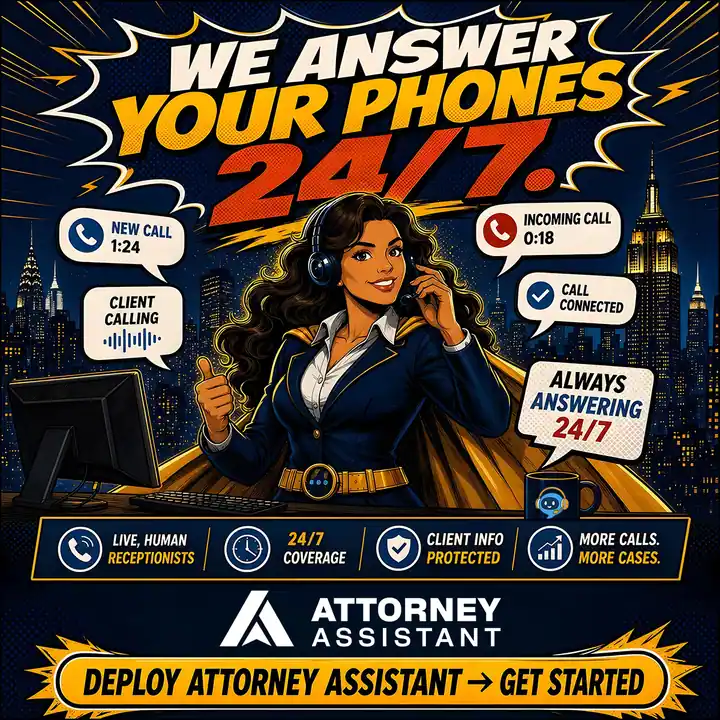
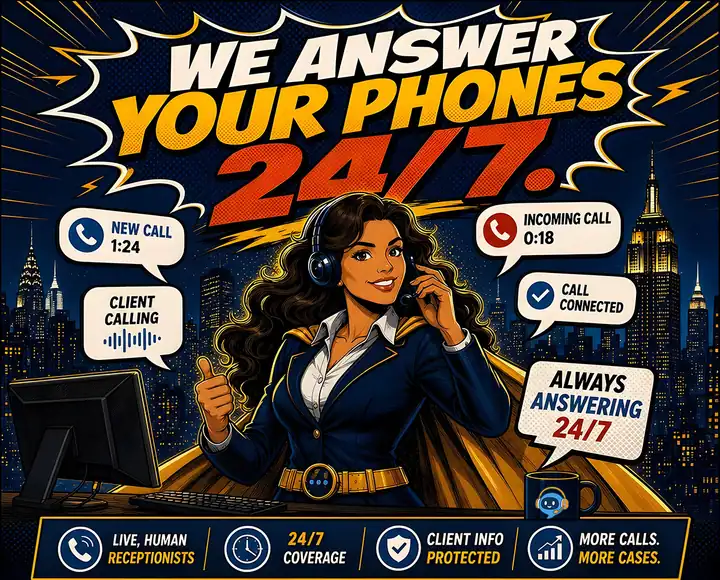
Villain cards: drop caption boxes, white offset shadow; crop ad-square footers
- Villain strips carry their own title and caption in the art, so the white
  name/tagline box below each card is removed (shadow now white for the
  cream background, cards top-aligned so short strips leave no gap)
- The 7 service ad squares drop their baked-in logo + get-started footer
  via per-image keepTop crops in scripts/lt26-images.mjs

diff --git a/src/styles/lt26.css b/src/styles/lt26.css
@@ -188,22 +188,16 @@
 }
 .lt26-panel--cream { background: var(--lt26-cream); border-color: rgba(245, 159, 38, 0.25); }
 
-/* Villain cards: comic art plus caption */
+/* Villain cards: the comic strip carries its own title and caption */
 .lt26-villain {
   overflow: hidden;
   border: 2px solid var(--lt26-navy);
   border-radius: 0.875rem;
   background: #fff;
-  box-shadow: 5px 5px 0 rgba(21, 56, 95, 0.85);
+  box-shadow: 5px 5px 0 rgba(255, 255, 255, 0.95);
+  align-self: start;
 }
 .lt26-villain img { display: block; width: 100%; height: auto; }
-.lt26-villain-name {
-  font-family: 'Bangers', 'Sora', cursive;
-  text-transform: uppercase;
-  letter-spacing: 0.05em;
-  font-size: 1.25rem;
-  color: var(--lt26-navy);
-}
 
 /* ── Proof stats ── */
 .lt26-stat-num {
